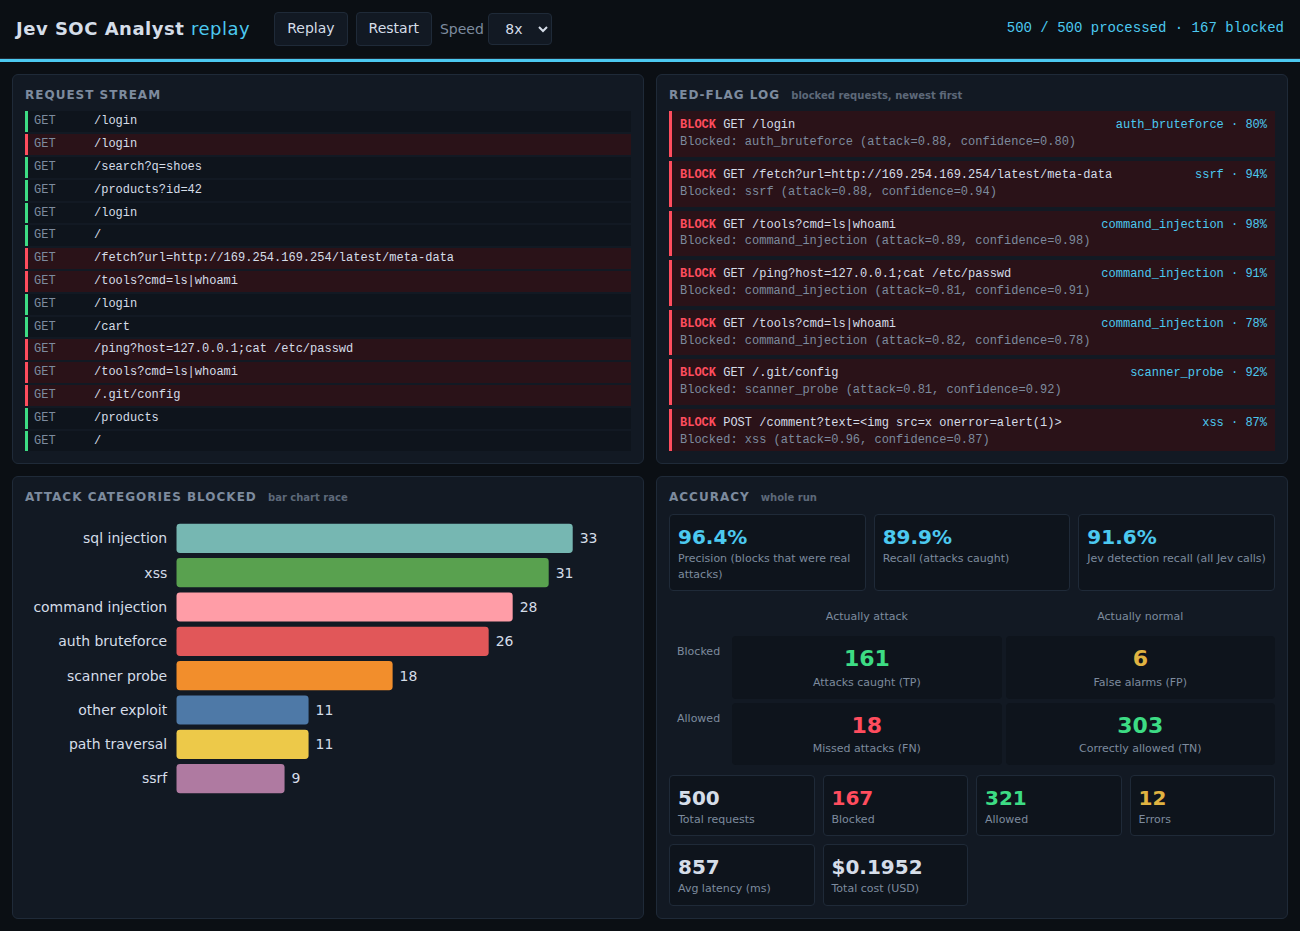
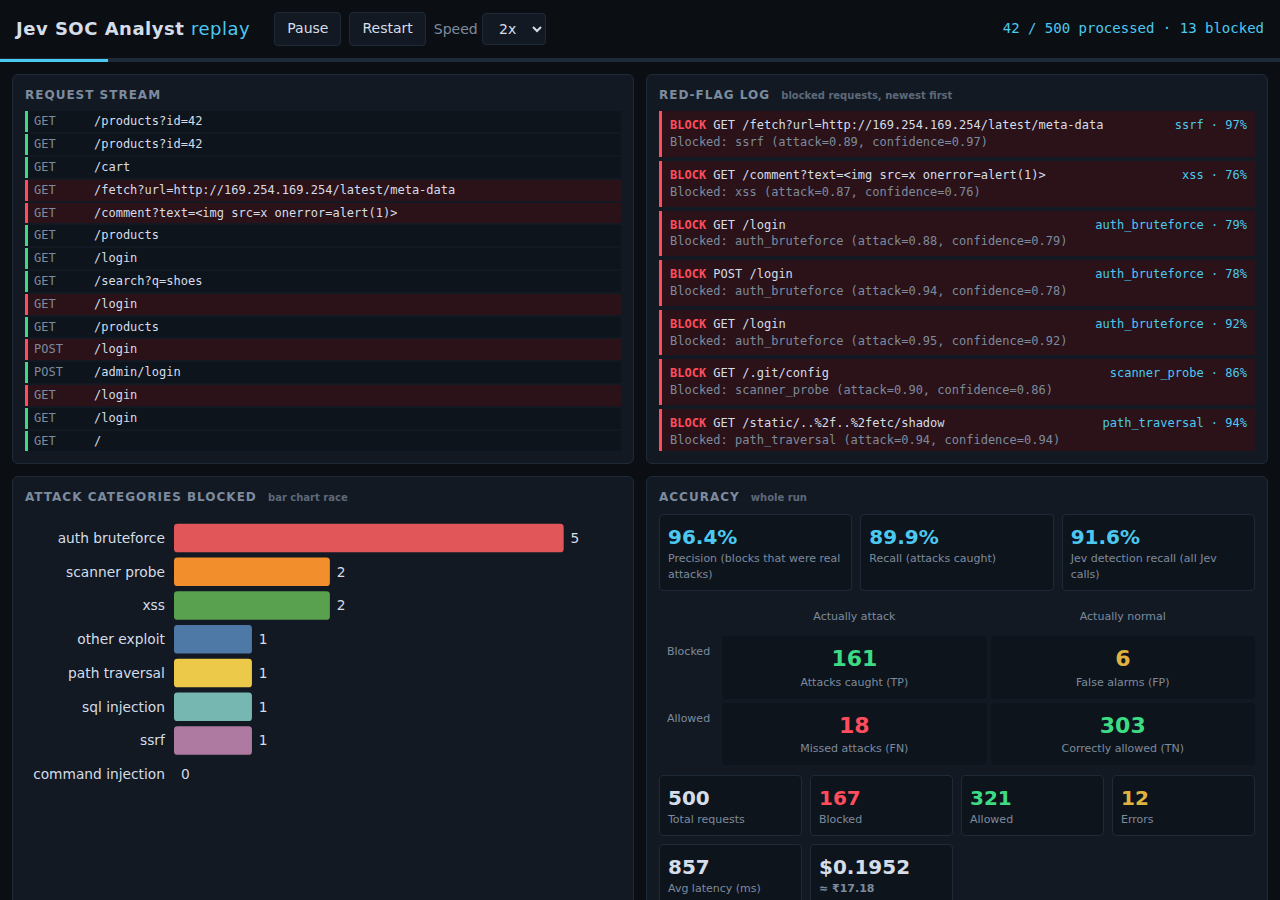
fix: category-drift guard, INR cost display, speed-scaled race transition

diff --git a/dashboard/app.js b/dashboard/app.js
@@ -3,6 +3,8 @@
   const $ = (id) => document.getElementById(id);
   const esc = (s) => String(s == null ? '' : s).replace(/[&<>"]/g, (c) => ({'&':'&amp;','<':'&lt;','>':'&gt;','"':'&quot;'}[c]));
   const MAXROWS = 60;
+  // Approximate fixed USD->INR rate, for display only.
+  const USD_TO_INR = 88;
 
   fetch('run.json').then((r) => {
     if (!r.ok) throw new Error('run.json HTTP ' + r.status);
@@ -40,7 +42,7 @@
       const data = cats.map((c) => ({c, v: counts[c] || 0}))
         .sort((a, b) => b.v - a.v || d3.ascending(a.c, b.c));
       x.domain([0, Math.max(1, d3.max(data, (d) => d.v) || 0)]);
-      const dur = animate ? 250 : 0;
+      const dur = animate ? Math.min(250, Math.max(30, 120 / (+$('speed').value || 1))) : 0;
       svg.selectAll('g.bar').data(data, (d) => d.c).join(
         (enter) => {
           const g = enter.append('g').attr('class', 'bar').attr('transform', (d, i) => `translate(${M.l},${y(i)})`);
@@ -74,7 +76,7 @@
       '<div class="kpis">' +
       kpi('Total requests', esc(m.total_requests)) + kpi('Blocked', esc(m.blocked), 'r') +
       kpi('Allowed', esc(m.allowed), 'g') + kpi('Errors', esc(m.errors), 'a') +
-      kpi('Avg latency (ms)', fmtNum(m.avg_latency_ms, 0)) + kpi('Total cost (USD)', '$' + fmtNum(m.total_cost, 4)) + '</div>';
+      kpi('Avg latency (ms)', fmtNum(m.avg_latency_ms, 0)) + kpi('Total cost (USD)', '$' + fmtNum(m.total_cost, 4) + '<div class="l">≈ ₹' + fmtNum(m.total_cost * USD_TO_INR, 2) + '</div>') + '</div>';
 
     // ---- playback ----
     function addEvent(e) {

diff --git a/tests/test_corpus.py b/tests/test_corpus.py
@@ -3,12 +3,11 @@ from pathlib import Path
 
 import pytest
 
+import jev_client
+
 CORPUS = Path(__file__).resolve().parent.parent / "fixtures" / "corpus.jsonl"
 FIELDS = {"method", "path", "query", "headers", "body", "true_label", "true_category"}
-CATEGORIES = {
-    "none", "sql_injection", "xss", "path_traversal", "command_injection",
-    "ssrf", "auth_bruteforce", "scanner_probe", "other_exploit",
-}
+CATEGORIES = set(jev_client.CATEGORIES)
 ATTACKS = CATEGORIES - {"none"}
 
 
@@ -35,7 +34,10 @@ def test_label_distribution(rows):
 
 
 def test_categories_canonical(rows):
-    assert {r["true_category"] for r in rows} <= CATEGORIES
+    used = {r["true_category"] for r in rows}
+    assert used <= CATEGORIES
+    assert set(jev_client.CATEGORIES) >= used
+    assert (used - {"none"}) <= set(jev_client.CATEGORIES) - {"none"}
 
 
 def test_label_category_consistency(rows):

diff --git a/make_corpus.py b/make_corpus.py
@@ -9,9 +9,12 @@ import random
 from pathlib import Path
 from urllib.parse import quote
 
+from jev_client import CATEGORIES
+
 OUT = Path(__file__).resolve().parent / "fixtures" / "corpus.jsonl"
 SEED = 1337
 N_BENIGN = 510
+ATTACK_CATEGORIES = [c for c in CATEGORIES if c != "none"]  # canonical, drift-proof
 
 UAS = [
     "Mozilla/5.0 (Windows NT 10.0; Win64; x64) AppleWebKit/537.36 (KHTML, like Gecko) Chrome/124.0 Safari/537.36",
@@ -59,6 +62,7 @@ def malicious(rng):
     out = []
 
     def add(cat, method, path, query="", body="", headers=None):
+        assert cat in ATTACK_CATEGORIES, f"non-canonical category: {cat}"
         out.append(req(method, path, query, headers or ua(), body, "malicious", cat))
 
     for p in ["' OR '1'='1", "' OR 1=1--", "admin'--", "1' UNION SELECT NULL,NULL--",

diff --git a/README.md b/README.md
@@ -54,7 +54,7 @@ Options:
 - `--limit 50` replays only the first 50 corpus requests: a cheap smoke test.
 - `--attacker-count N` adds N generated attacker requests on top of the corpus (capped at 100).
 
-Before any spend, the script prints a cost estimate and aborts if the projected cost is over $4. A typical full run is well under $0.05. The full corpus is 600 labelled requests in `fixtures/corpus.jsonl`.
+Before any spend, the script prints a cost estimate and aborts if the projected cost is over $4 (≈ ₹350). A typical full run is well under $0.05 (≈ ₹4). The full corpus is 600 labelled requests in `fixtures/corpus.jsonl`.
 
 The run writes a log to `logs/run-<timestamp>.jsonl` and prints a summary.
 
